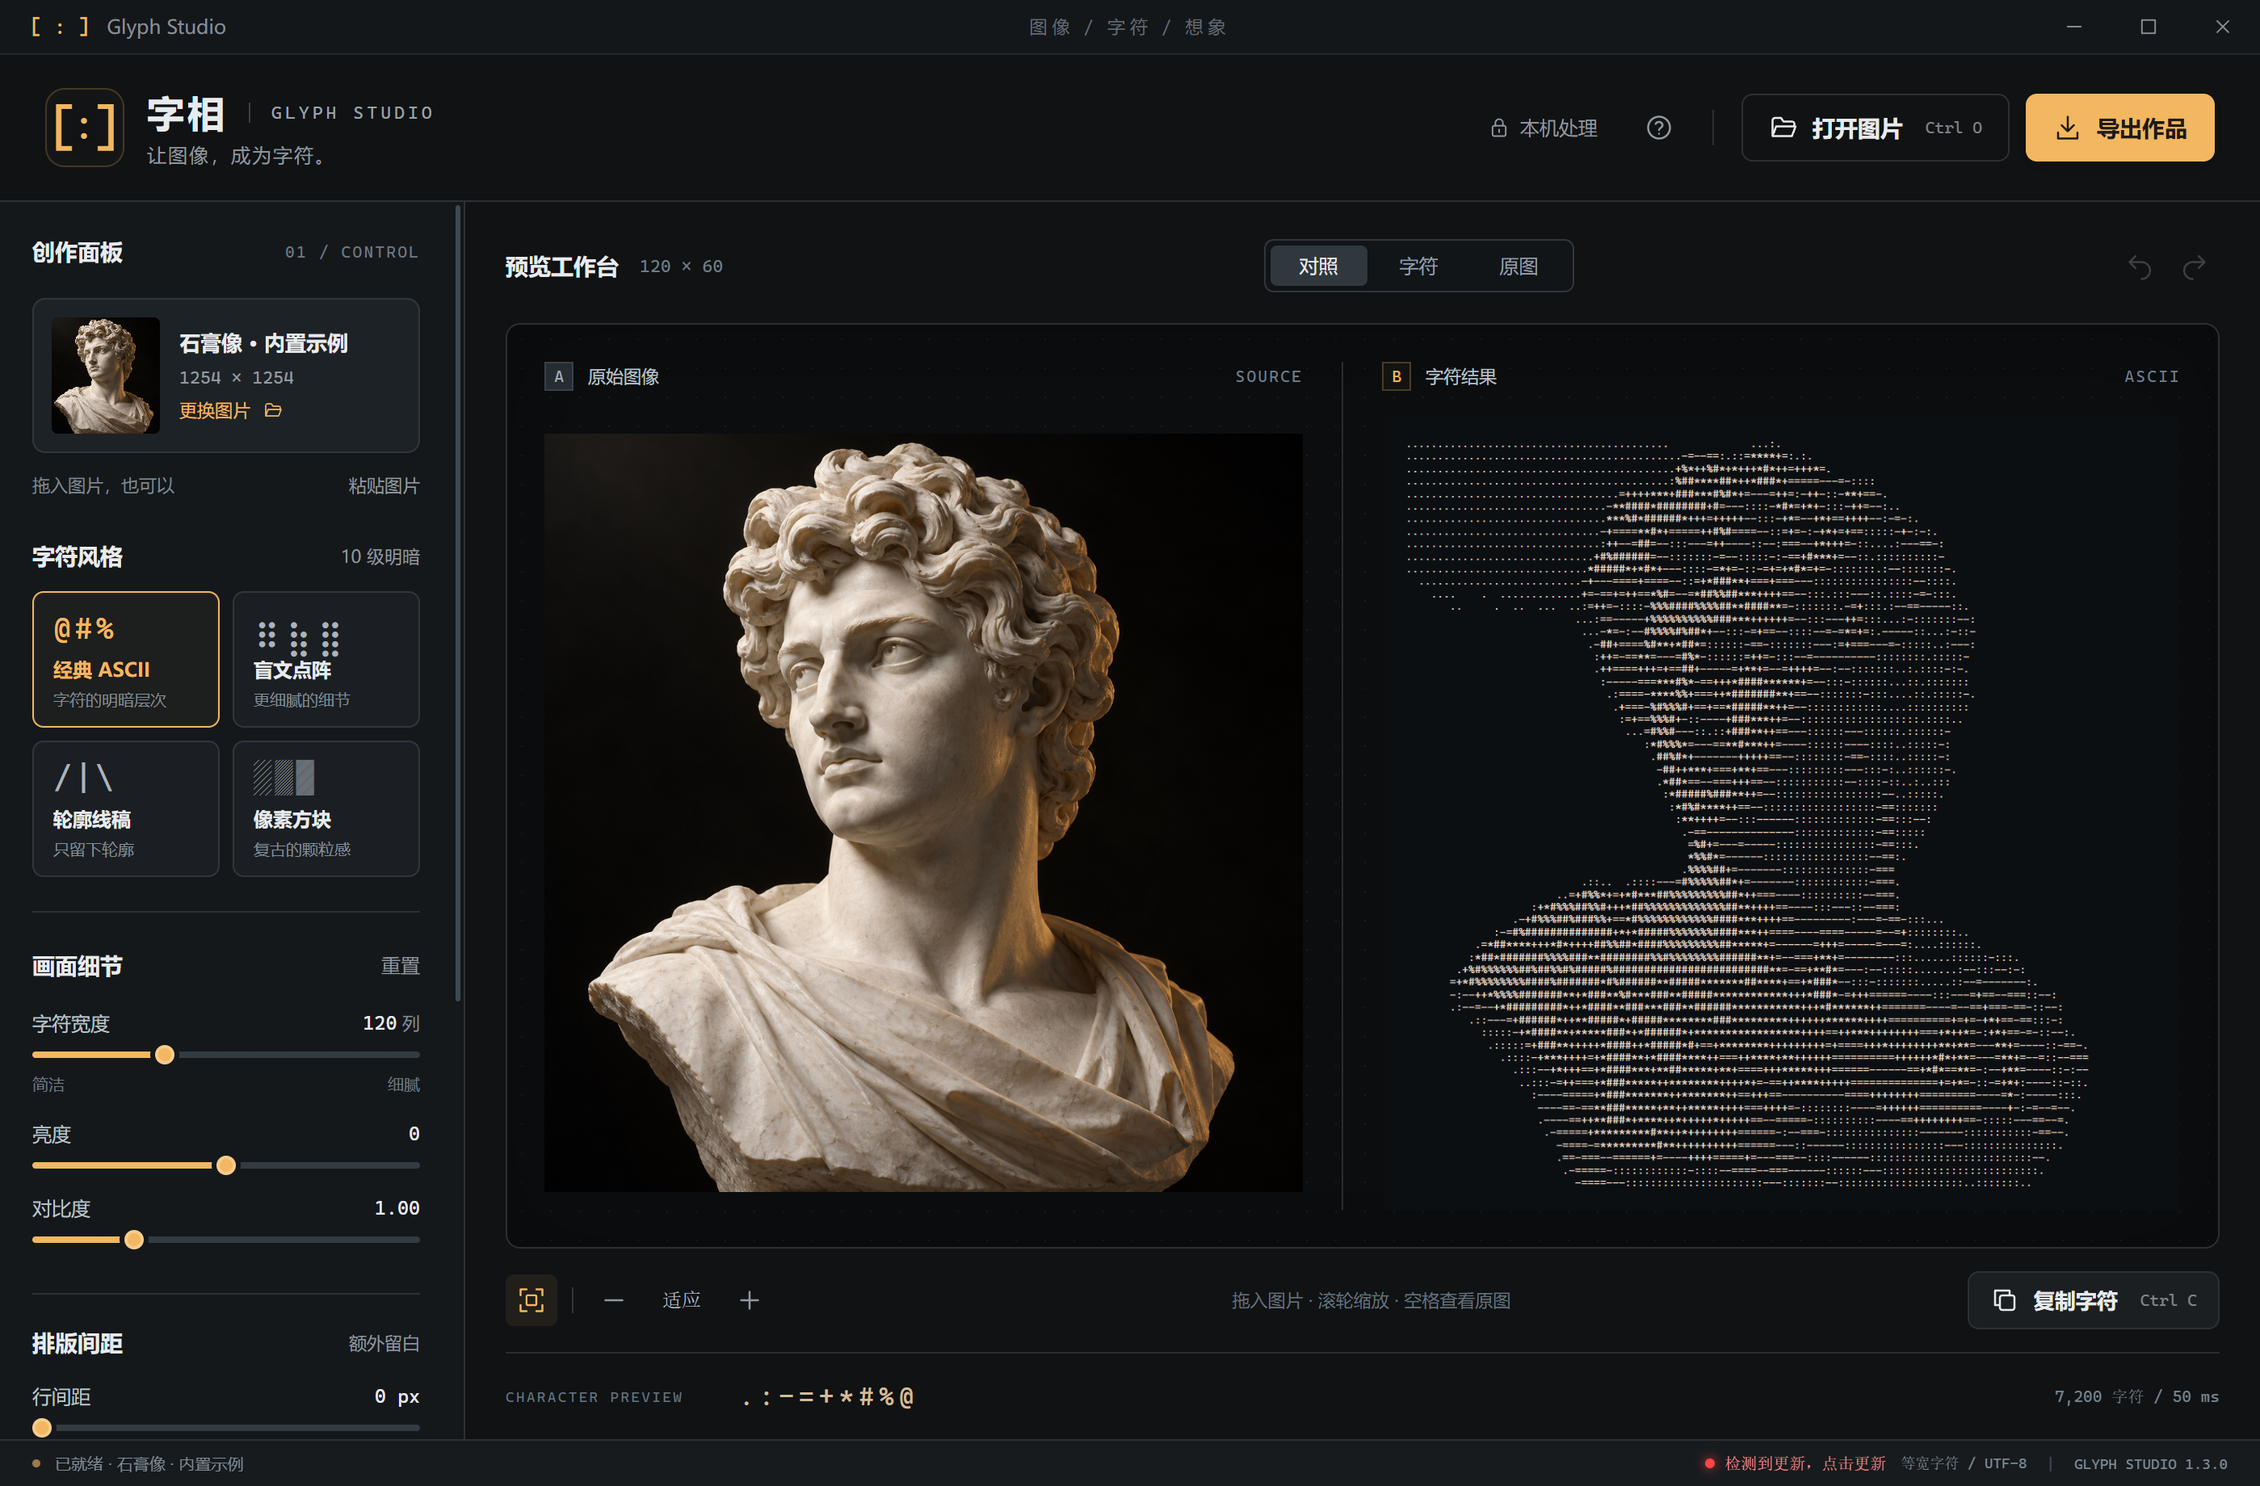
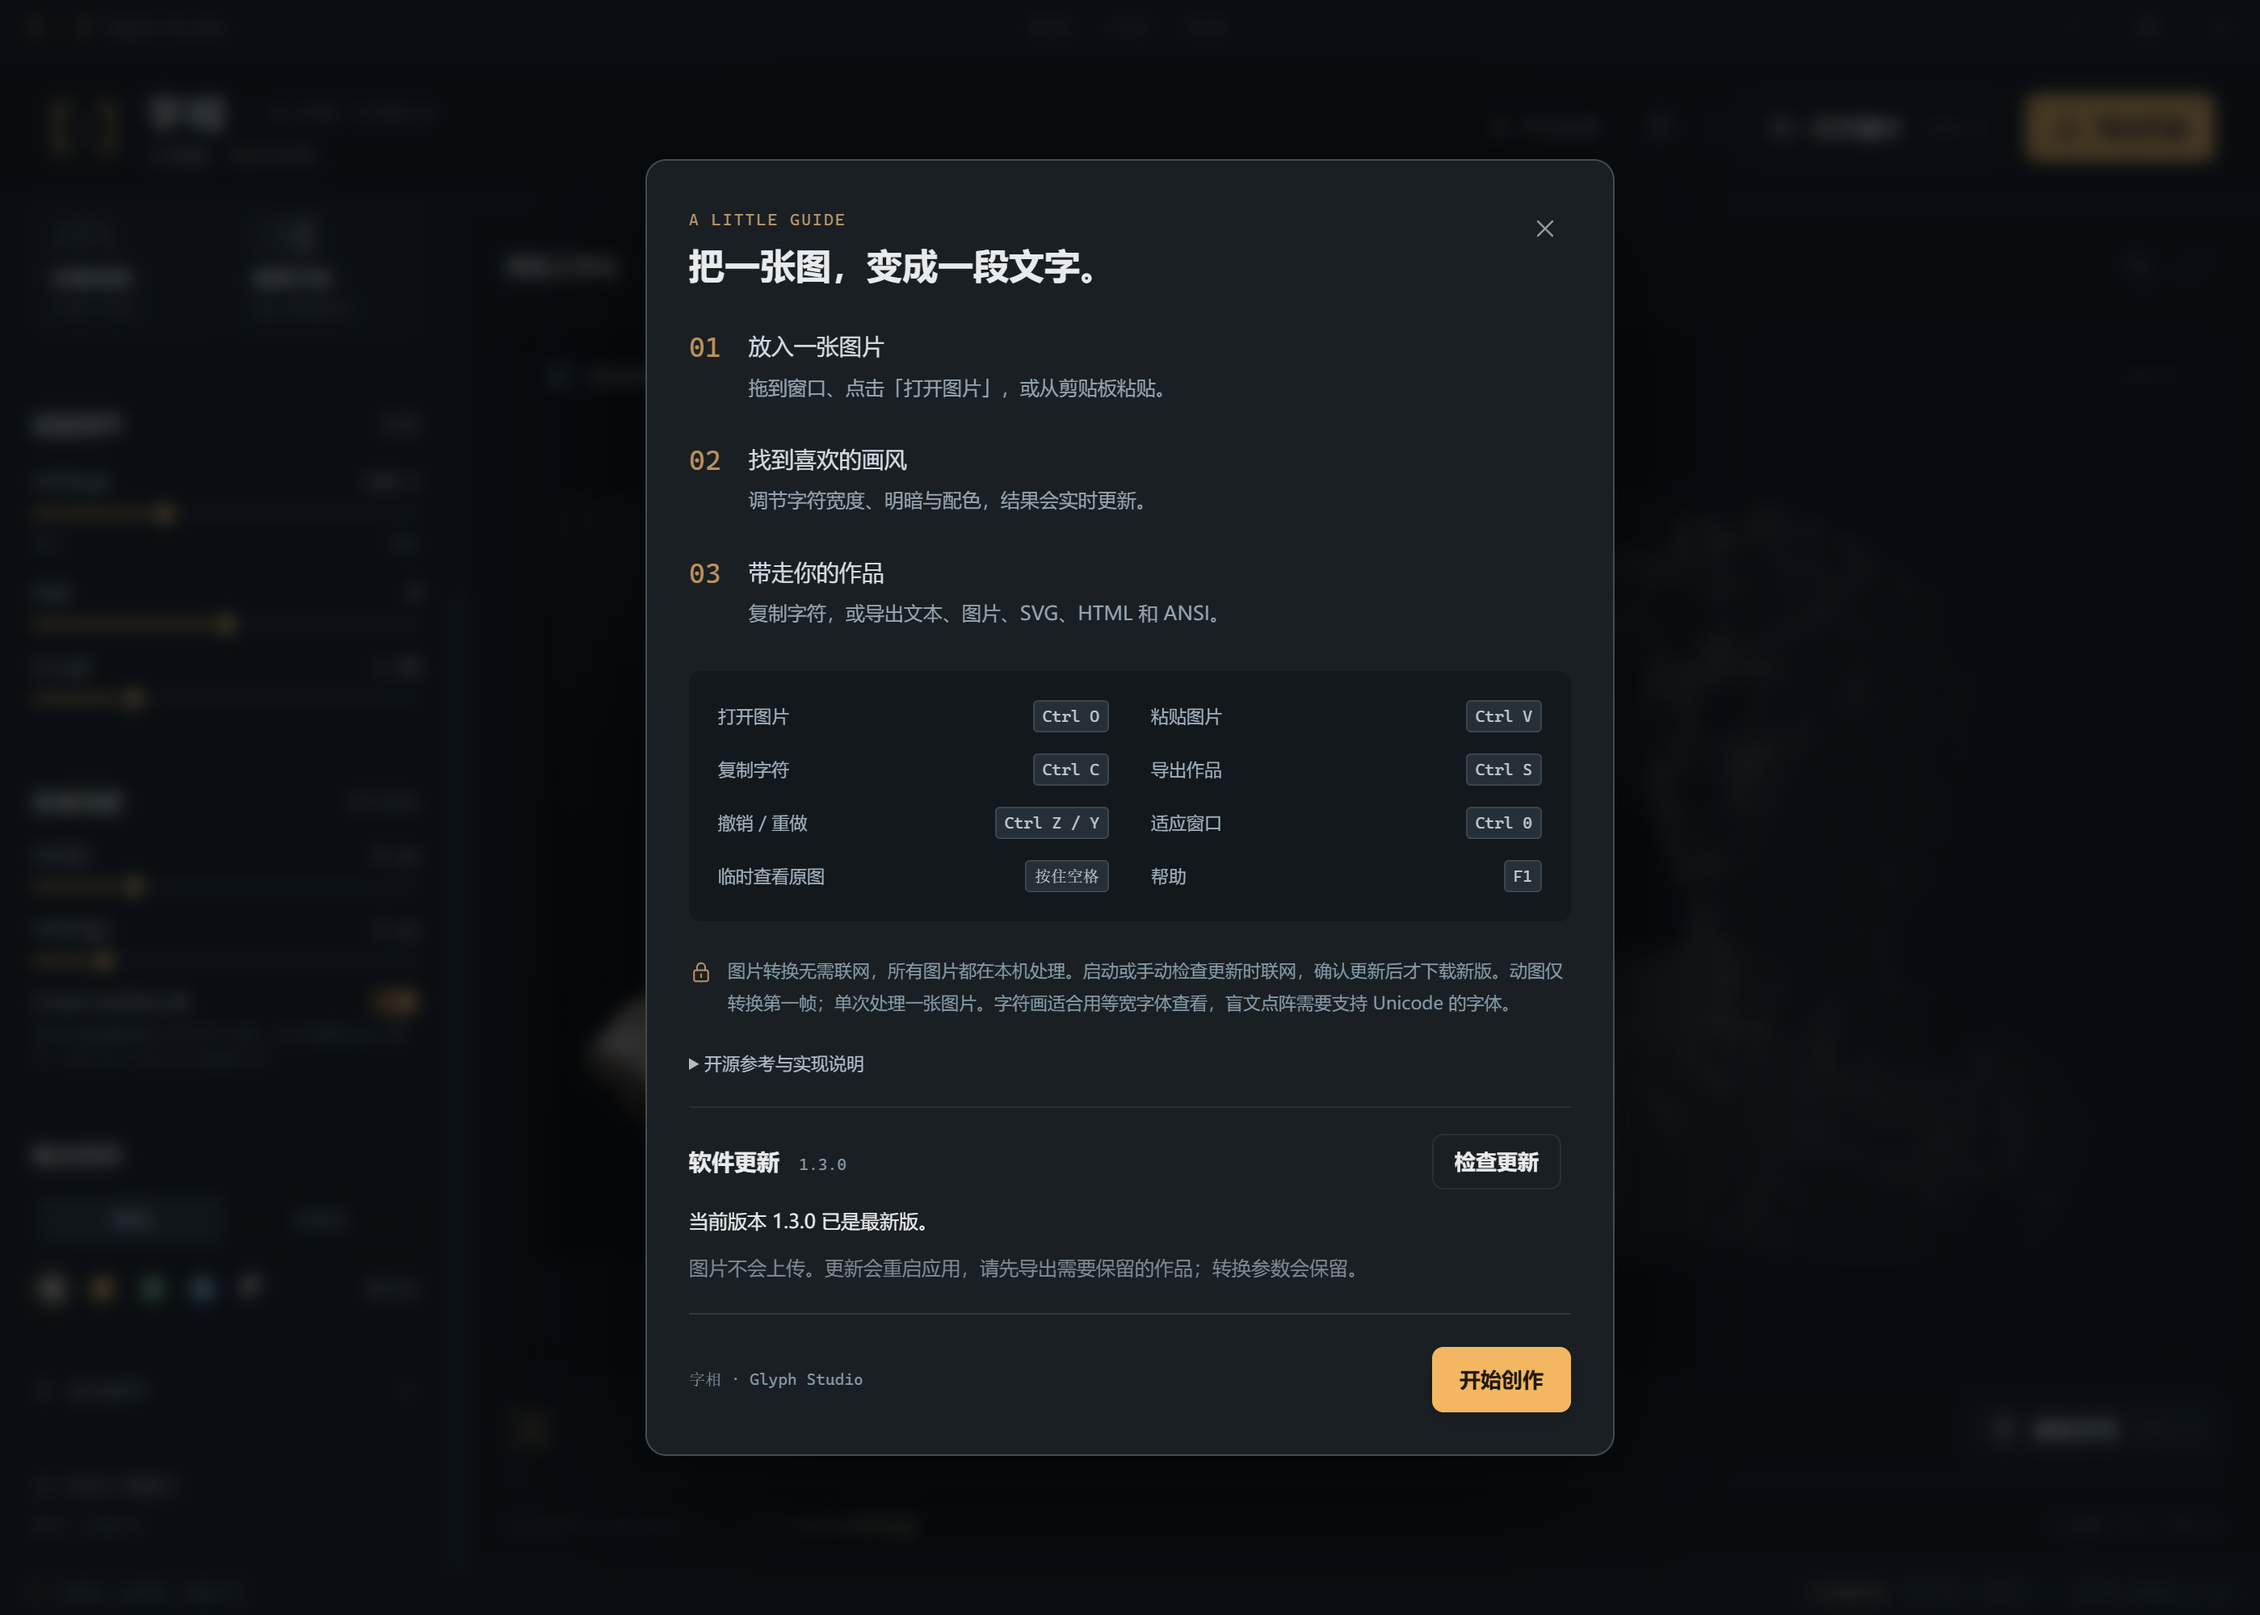
更新1.3.0高DPI界面实拍与展示说明

diff --git a/README.md b/README.md
@@ -8,6 +8,8 @@
 
 ![字相：左边看原图，右边看用字符拼成的结果](docs/images/screenshot.png)
 
+上图为 1.3.0 桌面版实拍，使用 Windows 200% 缩放，保留 2798 × 2000 像素的原始截图。点击图片可以查看大图。
+
 ## 可以拿它做什么？
 
 - **做复古风头像或分享图**：把自己的照片、宠物照、插画变成字符画，保存成 PNG，像普通图片一样上传或发给朋友。
@@ -47,6 +49,10 @@
 
 行间距和字符间距会保留在 PNG、SVG 和 HTML 中。复制文字、TXT 和 ANSI 保存的是字符与换行，不能把像素间距一起带过去。
 
+下面是调整行间距和字符间距后的实际界面：开启比例补正后，字符行数随间距变化；左下方也可以选择配色。
+
+![1.3.0 高 DPI 界面：行间距、字符间距、自动比例补正和配色](docs/images/spacing.png)
+
 ## 保存时，选哪个格式？
 
 | 你想做的事 | 选这个 |
@@ -75,7 +81,9 @@
 
 **更新前先导出当前作品。**参数会保留，当前图片不会在重启后恢复。如果还在使用 1.2.0 或更早版本，请先从[下载页面](https://github.com/BerryFuwawa/glyph-studio/releases/latest)手动下载新版；1.3.0 起支持内置更新。
 
-![右下角红点更新提示示例](docs/images/auto-update.png)
+下面是当前版本的帮助和更新界面。实拍时 1.3.0 已是最新版，因此显示“已是最新版”；发布新版后才会出现右下角红点提示。
+
+![1.3.0 高 DPI 帮助与更新界面：当前版本已是最新版](docs/images/auto-update.png)
 
 ## 还有几个使用范围要知道
 
